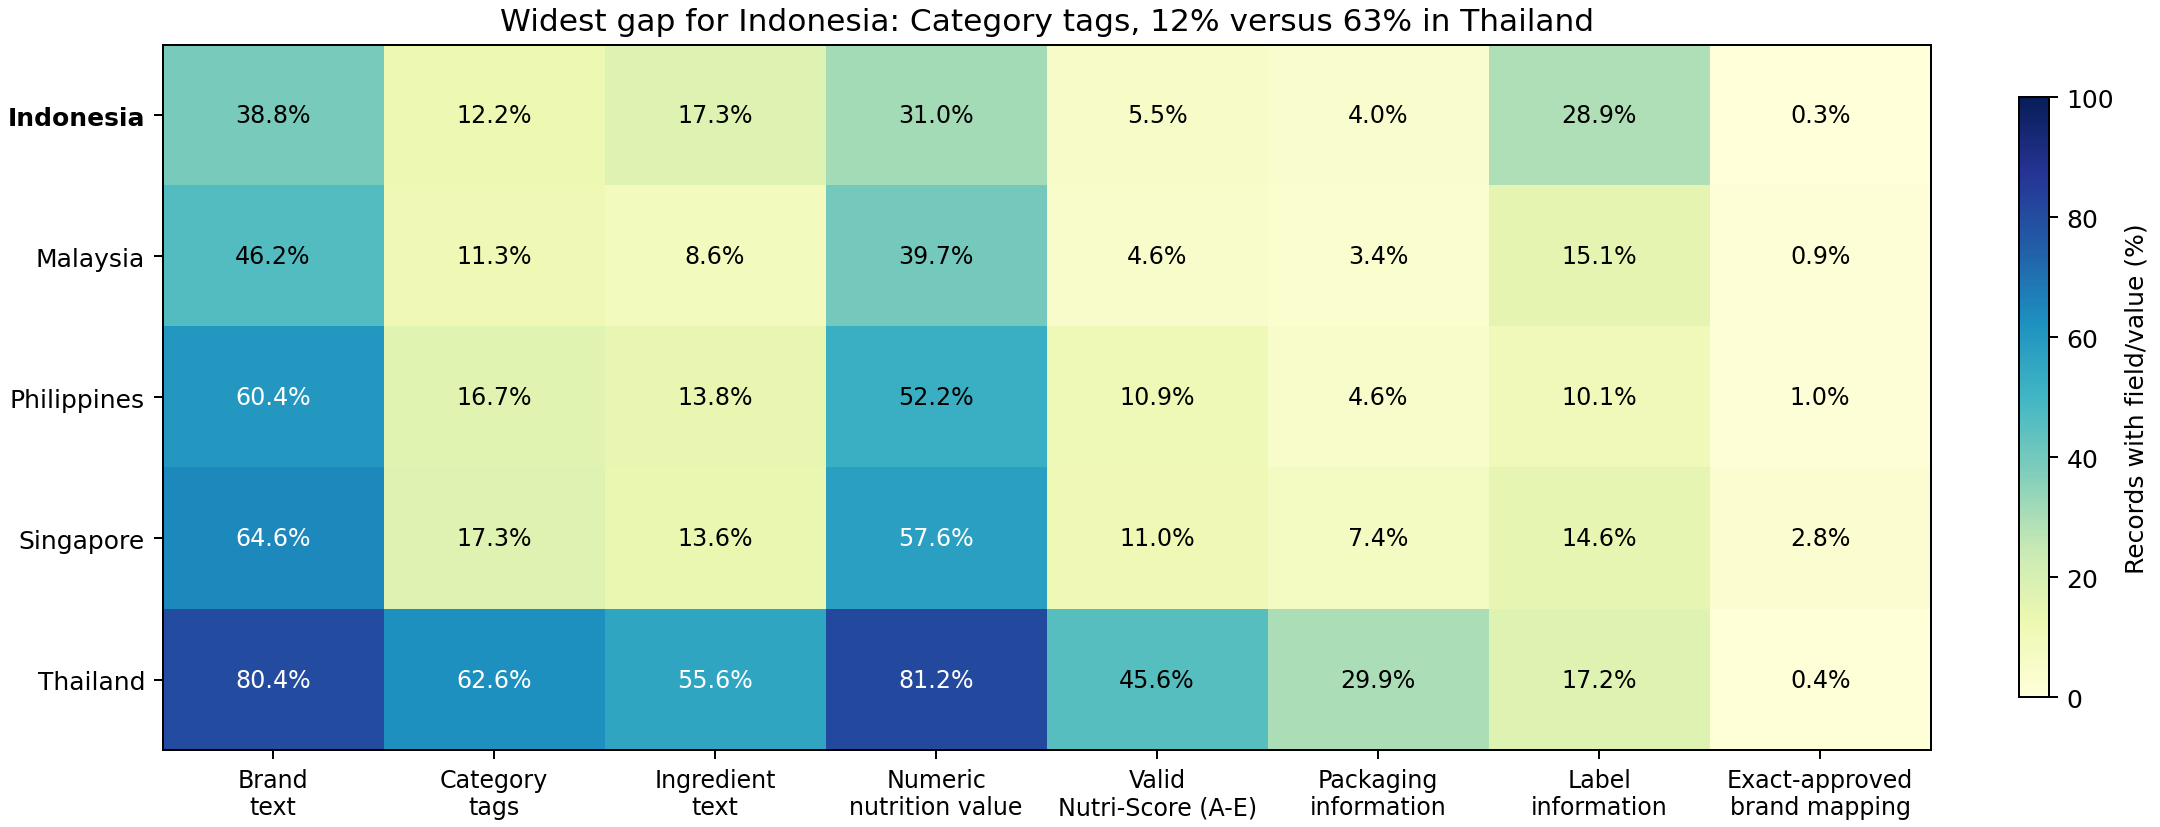
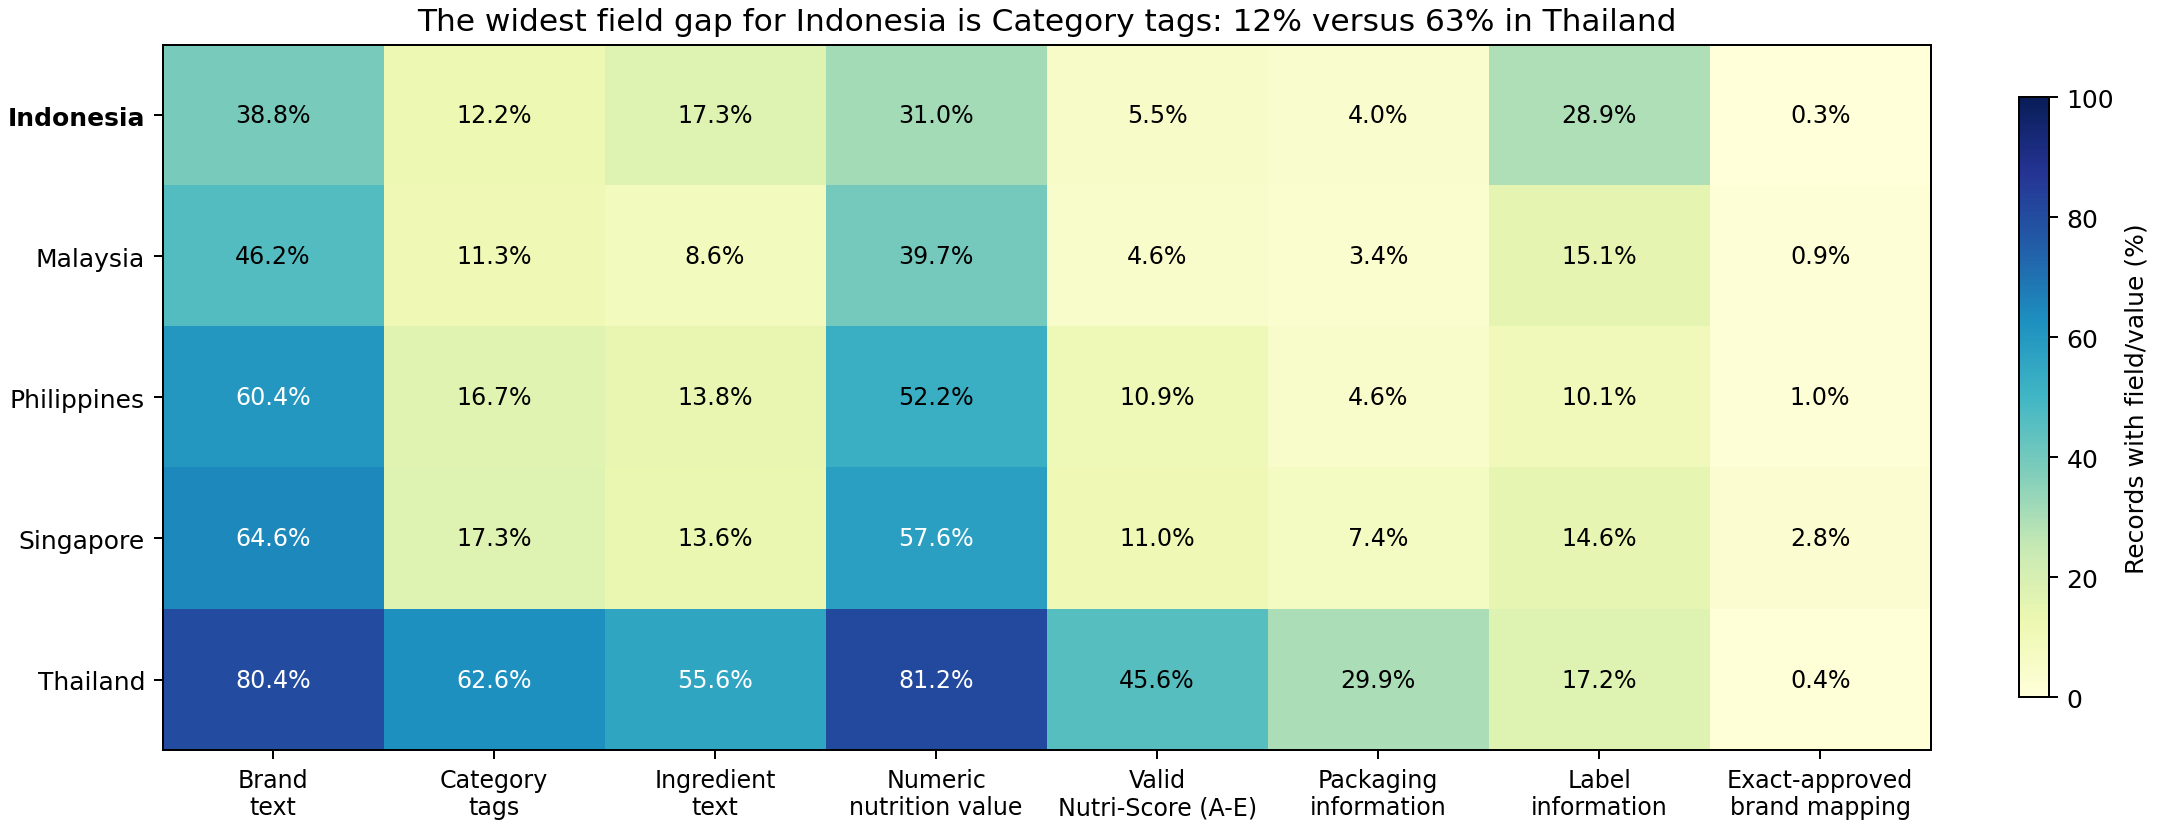
docs: link contact details and soften the heatmap title
Replaces the bracketed placeholders with a mailto link and a labeled
LinkedIn link, and uses the author's full name instead of the GitHub
handle. The heatmap title now reads as a sentence scoped to the fields
shown rather than a bare label, and its test is updated to match. Only
the heatmap PNG changed, which confirms the other four charts are
byte-identical.

Changed region(s): [[0.1861, 0.0, 0.7755, 0.0605]]

diff --git a/scripts/support_generate_visuals.py b/scripts/support_generate_visuals.py
@@ -85,7 +85,8 @@ def readiness_title(matrix: pd.DataFrame) -> str:
         widest = str(spread.idxmax())
         column = matrix[widest]
         return (
-            f"Widest spread: {widest}, {float(column.min()):.0f}% in "
+            f"The widest spread among the fields shown is {widest}: "
+            f"{float(column.min()):.0f}% in "
             f"{COUNTRY_NAMES[str(column.idxmin())]} versus "
             f"{float(column.max()):.0f}% in {COUNTRY_NAMES[str(column.idxmax())]}"
         )
@@ -93,7 +94,7 @@ def readiness_title(matrix: pd.DataFrame) -> str:
     best_value = gaps[metric][2]
     best_country = gaps[metric][1]
     return (
-        f"Widest gap for Indonesia: {metric}, "
+        f"The widest field gap for Indonesia is {metric}: "
         f"{float(matrix.loc[STUDY_COUNTRY, metric]):.0f}% versus "
         f"{best_value:.0f}% in {COUNTRY_NAMES[best_country]}"
     )

diff --git a/tests/test_generated_visuals.py b/tests/test_generated_visuals.py
@@ -254,7 +254,10 @@ def test_readiness_title_falls_back_to_the_spread_when_indonesia_leads() -> None
 
     title = visuals.readiness_title(matrix)
 
-    assert title == "Widest spread: Labels, 17% in Thailand versus 29% in Indonesia"
+    assert title == (
+        "The widest spread among the fields shown is Labels: "
+        "17% in Thailand versus 29% in Indonesia"
+    )
 
 
 def test_largest_group_title_counts_countries() -> None:

diff --git a/README.md b/README.md
@@ -83,9 +83,9 @@ Percentages are records with a non-empty field or valid value, using the definit
 | Thailand (TH) | 80.4% | 62.6% | 55.6% | 81.2% | 45.6% | 29.9% | 17.2% | 0.4% |
 <!-- AUTO-GENERATED: readiness-scorecard:END -->
 
-![Heatmap of field readiness by country; Indonesia's widest gap is category tags at 12% versus 63% in Thailand](docs/img/data_readiness_scorecard.png)
+![Heatmap of field readiness by country; the widest field gap for Indonesia is category tags at 12% versus 63% in Thailand](docs/img/data_readiness_scorecard.png)
 
-*Figure 4 — The widest gap for Indonesia is category tags: 12% versus 63% in Thailand. How to read this: darker cells mean more records carry a usable value for that field.*
+*Figure 4 — The widest field gap for Indonesia is category tags: 12% versus 63% in Thailand. How to read this: darker cells mean more records carry a usable value for that field.*
 
 ![Grouped bar chart comparing brand text with exact-approved brand mapping; brand text covers 39% of Indonesian records and exact-approved mapping 0.34%](docs/img/brand_mapping_gap.png)
 
@@ -139,8 +139,8 @@ Original project code and documentation are MIT-licensed. Open Food Facts data a
 
 ## About the author
 
-[MaulanaKindi] is a freelance data analyst and BI consultant. This study is a portfolio piece: it shows how I scope a data question, measure what the data can actually support, and keep every claim reproducible.
+[Maulana Kindi](https://www.linkedin.com/in/maulanakinditamami/) is a freelance data analyst and BI consultant. This study is a portfolio piece: it shows how I scope a data question, measure what the data can actually support, and keep every claim reproducible.
 
 Services: data-fitness audits, KPI definition, SQL and DuckDB pipelines, and dashboards.
 
-Contact: [maulanakindi@gmail.com] · [https://www.linkedin.com/in/maulanakinditamami/]
+Contact: [maulanakindi@gmail.com](mailto:maulanakindi@gmail.com) · [LinkedIn](https://www.linkedin.com/in/maulanakinditamami/)

diff --git a/docs/12_client_one_pager.md b/docs/12_client_one_pager.md
@@ -1,6 +1,6 @@
 # Client One-Pager — Indonesia Food Product Landscape
 
-**Prepared by:** [MaulanaKindi] · [maulanakindi@gmail.com] · [https://www.linkedin.com/in/maulanakinditamami/]
+**Prepared by:** [Maulana Kindi](https://www.linkedin.com/in/maulanakinditamami/) · [maulanakindi@gmail.com](mailto:maulanakindi@gmail.com) · [LinkedIn](https://www.linkedin.com/in/maulanakinditamami/)
 
 ## The problem
 
